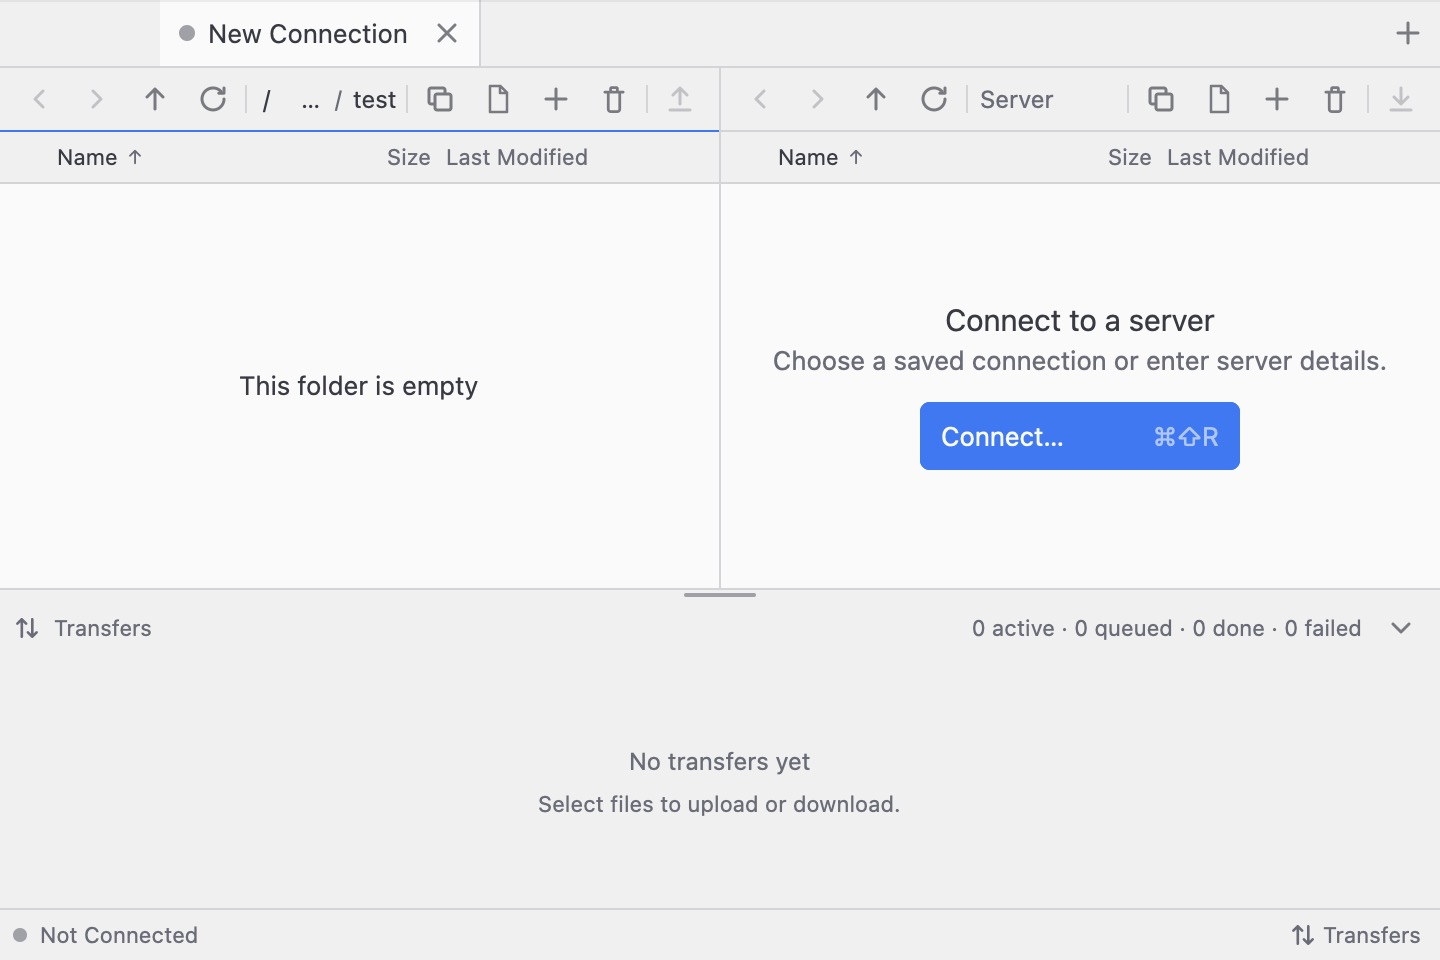
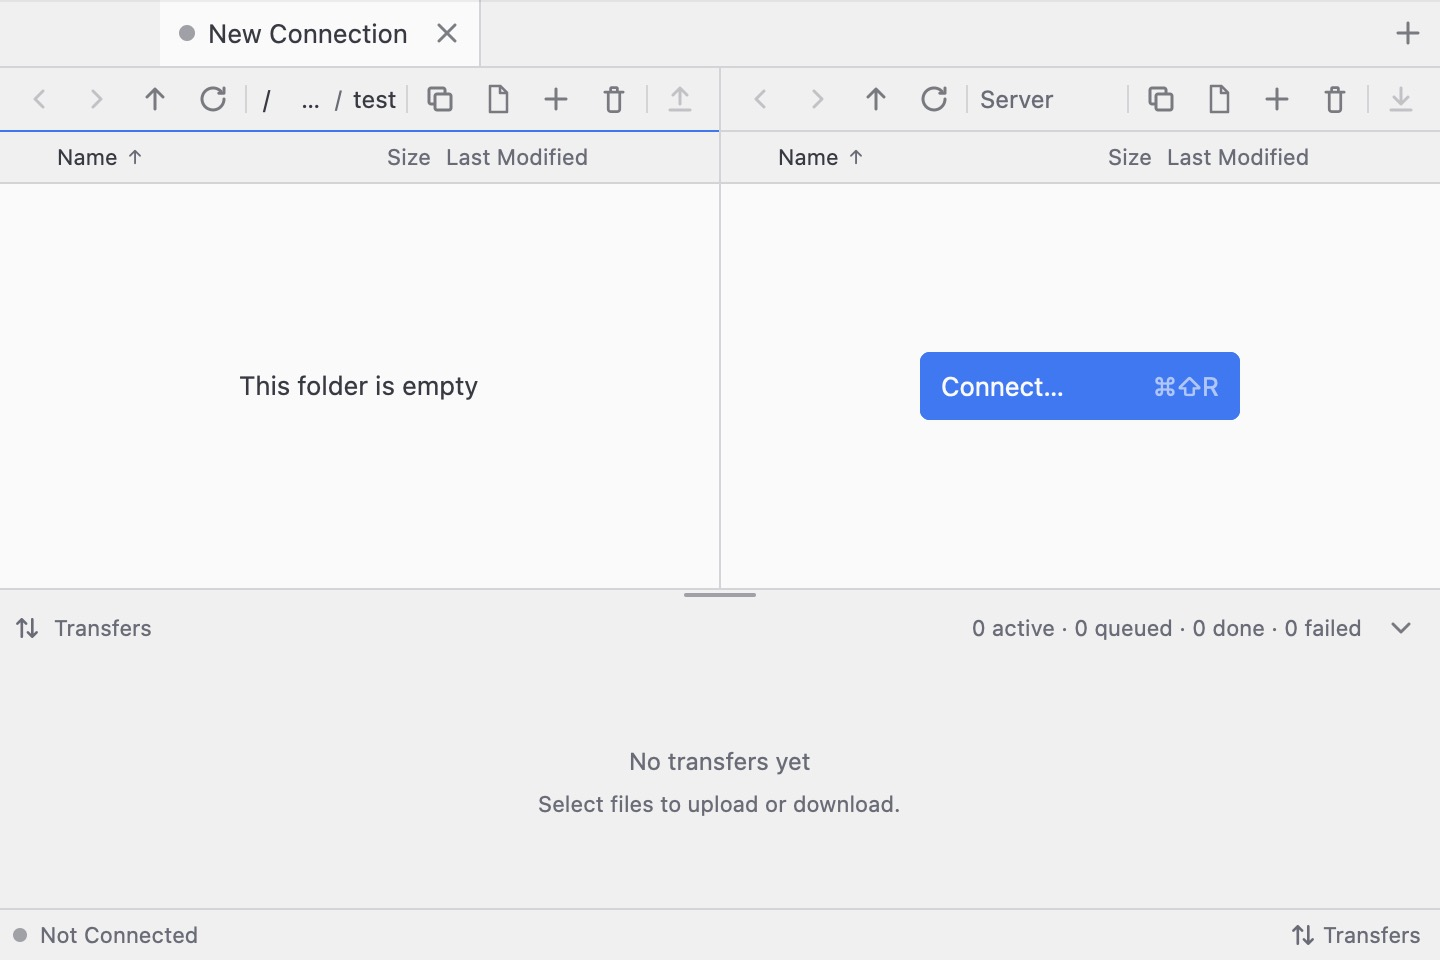
Center the empty remote connection card
The remote pane's first-connection state rendered a headline and subtitle
above the Connect button, and the whole card (button plus recent rows) was
laid out from the top of the pane, so it never read as centered.

Drop the headline and subtitle so the card leads with the Connect button,
and wrap the scroll content so it takes at least the viewport height: the
card centers while its recent rows fit, and starts at the top edge once
six rows exceed the pane (centering overflow would push the first row
above the scroll origin, where scrolling cannot reach it).

Verification: cargo test --workspace (684 passed, 2 ignored), clippy
-D warnings, fmt, architecture and sensitive-log checks; new geometry
tests cover the centered and overflowing cases at 720x480 and 1200x800,
and the workspace-ux captures were regenerated with the headless renderer.

Changed region(s): [[0.5312, 0.3125, 0.9688, 0.5]]

diff --git a/crates/app/src/workspace/tests.rs b/crates/app/src/workspace/tests.rs
@@ -1058,10 +1058,20 @@ fn compact_workspace_scrolls_recent_connections(cx: &mut TestAppContext) {
             .is_some(),
         "short windows expose a scrollbar for all recent connections"
     );
-    let position = cx
+    let viewport = cx
         .debug_bounds("remote-list-container-viewport")
-        .expect("remote viewport exists")
-        .center();
+        .expect("remote viewport exists");
+    let card = cx
+        .debug_bounds("remote-empty-card")
+        .expect("recent connection card is visible");
+    // Overflowing content starts at the top edge (inside the card's own
+    // vertical padding): centering it would push the first row above the
+    // viewport, where neither scrolling nor clipping could bring it back.
+    assert!(
+        card.top() >= viewport.top() && card.top() <= viewport.top() + px(12.0),
+        "overflowing recent connections start at the viewport top: {card:?} in {viewport:?}"
+    );
+    let position = viewport.center();
     cx.simulate_event(ScrollWheelEvent {
         position,
         delta: ScrollDelta::Pixels(point(px(0.0), px(-120.0))),
@@ -1070,6 +1080,46 @@ fn compact_workspace_scrolls_recent_connections(cx: &mut TestAppContext) {
     workspace.read_with(&cx, |workspace, _| {
         assert!(workspace.remote_empty_scroll.offset().y < px(0.0))
     });
+}
+
+#[gpui_kit::test]
+fn compact_workspace_centers_recent_connections_that_fit(cx: &mut TestAppContext) {
+    let (workspace, mut cx, _channels) = init_workspace(cx);
+    workspace.update(&mut cx, |_workspace, cx| {
+        for index in 0..3 {
+            cx.resources_mut()
+                .recents
+                .upsert(macsftp_storage::RecentEntryInput {
+                    host: format!("recent-{index}.example.com"),
+                    port: 22,
+                    username: "operator".into(),
+                    profile_id: None,
+                    display_name: None,
+                    last_remote_path: None,
+                    last_connected_at: index,
+                })
+                .expect("seed recent connection fixture");
+        }
+        cx.notify();
+    });
+    for dimensions in [size(px(720.0), px(480.0)), size(px(1200.0), px(800.0))] {
+        cx.simulate_resize(dimensions);
+        cx.run_until_parked();
+        let viewport = cx
+            .debug_bounds("remote-list-container-viewport")
+            .expect("remote viewport exists");
+        let card = cx
+            .debug_bounds("remote-empty-card")
+            .expect("recent connection card is visible");
+        assert!(
+            card.size.height < viewport.size.height,
+            "fixture card must fit the viewport: {card:?} in {viewport:?}"
+        );
+        assert!(
+            (card.center().y - viewport.center().y).abs() < px(2.0),
+            "a card that fits is vertically centered: {card:?} in {viewport:?}"
+        );
+    }
 }
 
 #[gpui_kit::test]

diff --git a/crates/app/src/workspace/render.rs b/crates/app/src/workspace/render.rs
@@ -861,9 +861,19 @@ impl crate::workspace::Workspace {
                 if recent_rows.is_empty() {
                     surface.flex_1().justify_center().into_any_element()
                 } else {
+                    // The scroll content takes at least the viewport height so
+                    // the card centers while it fits, and grows instead of
+                    // overflowing negatively once the rows are taller than the
+                    // pane (a negative offset would hide the top row from
+                    // scrolling entirely).
                     macsftp_ui::scroll_area(
                         "remote-connection-empty",
-                        surface.flex_none(),
+                        div()
+                            .flex()
+                            .flex_col()
+                            .justify_center()
+                            .min_h_full()
+                            .child(surface.flex_none()),
                         &self.remote_empty_scroll,
                         &self.remote_empty_scrollbar,
                         window,
@@ -935,8 +945,8 @@ impl crate::workspace::Workspace {
                         }))
                         .into_any_element();
                     Some(remote_empty_with_recents(
-                        Some("Connect to a server".into()),
-                        Some("Choose a saved connection or enter server details.".into()),
+                        None,
+                        None,
                         vec![connect_action],
                         window,
                         cx,

diff --git a/docs/visual-evidence/workspace-ux/README.md b/docs/visual-evidence/workspace-ux/README.md
@@ -8,11 +8,11 @@ The type-select capture shows the accessibility pass: with the local pane focuse
 
 The Settings captures show the three-section surface in both themes: General carries appearance, the delete-confirmation recovery switch, hidden files and transfer metadata preferences; Editor owns the external editor and its association rules; Saved Connections keeps the profile list and editor together. The General form scrolls at 480 pt instead of clipping, and its switches use the Base toggle contract (Tab, Enter/Space and `aria_toggled`) with the project's own track and knob. The sidebar entries are Base buttons, so they take keyboard focus as well as pointer clicks.
 
-The dark-maximized and light form-focus captures remain the original 2026-10-11 native preview captures of those layouts.
+The dark-maximized and light form-focus captures remain the original 2026-10-11 native preview captures of those layouts. The 2026-10-23 refresh dropped the first-connection headline and subtitle, so the empty remote pane leads with the Connect button and centers that card (with its recent rows) in the viewport while it fits, and top-aligns it once six rows exceed the pane instead of pushing the first row above the scroll origin.
 
 | Capture | Verified behavior |
 | --- | --- |
-| [Light, 720×480](light-720x480.jpg) | Compact default transfer drawer, centered first-connection card, visible footer entry |
+| [Light, 720×480](light-720x480.jpg) | Compact default transfer drawer, first-connection card centered on its Connect button, visible footer entry |
 | [Dark, 720×480](dark-720x480.jpg) | Theme colors, centered queue guidance and the outward focus ring on the Base connection button |
 | [Dark, maximized](dark-wide.jpg) | Resizing retains balanced pane layout and drawer height |
 | [Light focus, 720×480](light-focus-720x480.jpg) | Connection shortcut opens the form; Tab moves to Port with a visible focus ring |
@@ -42,6 +42,6 @@ done
 
 Follow-up captures refreshed the light/dark workspace and recent list after centering queue guidance and reducing recent rows to 30px; the 2026-10-17 passes added the outward focus ring on the connection button, the path bar cluster rules, and the failed-connection, palette and two-tab captures. The accessibility pass added the type-select capture (its own `/tmp/macsftp-type-select` folder, which the capture creates if missing, writes into only while it is empty, and leaves empty afterwards, so it never touches an entry it did not write), refreshed the palette (it gained the sort commands), and pinned the second tab to the `/tmp/test` fixture — a fresh tab opens the home folder, so that capture used to embed this machine's home listing and drift with its timestamps. The 2026-10-18 quality polish pass updated the command palette top padding (48px) and viewport-adaptive height (ensuring the bottom shortcut legend is never clipped at 480pt), replaced the path-bar Delete icon with a trash can icon, aligned the table header 'Name' label with file row names, and gave breadcrumb tail segments shrink protection. Two consecutive regeneration runs are byte-identical. The light form-focus capture remains evidence from the first pass; the form itself is unchanged. The Settings and native-polish pass refreshed every workspace capture because the sort indicator, selected-row secondary text, recent-connection rows and drawer grabber are shared by all of them; the four Settings captures were added in the same run. Native keyboard traversal to the connection button and Enter opening its form were verified after excluding the pane shortcut in its context.
 
-Manual checks also covered the drawer header collapse button, reopening through the footer, ⌘J toggling, opening an empty local folder and its centered message. Automated geometry checks cover empty content in light/dark themes at 720×480 and 1200×800 and the path bar rules with their breadcrumb in a 360 pt pane; interaction tests cover preserved drawer height and wheel scrolling through recent connections. Unit tests cover the elevation scale order, the scrim range, the two-line error state and the tab close button hover behavior.
+Manual checks also covered the drawer header collapse button, reopening through the footer, ⌘J toggling, opening an empty local folder and its centered message. Automated geometry checks cover empty content in light/dark themes at 720×480 and 1200×800, the connection card centered while its recent rows fit and starting at the viewport top once they do not, and the path bar rules with their breadcrumb in a 360 pt pane; interaction tests cover preserved drawer height and wheel scrolling through recent connections. Unit tests cover the elevation scale order, the scrim range, the two-line error state and the tab close button hover behavior.
 
 Validation: `bash scripts/check.sh` (617 tests plus 2 ignored across the workspace, including 43 UI tests), Clippy with `-D warnings`, formatting, architecture isolation and sensitive-log checks passed. These captures document disconnected workspace behavior; live SFTP and active-transfer visuals were outside this layout change.
